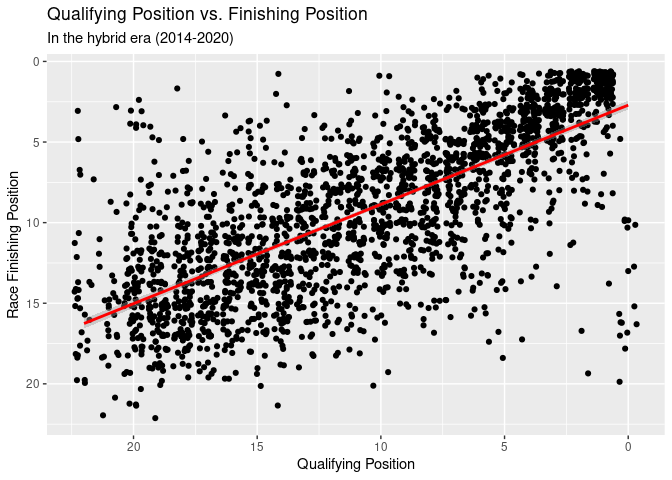
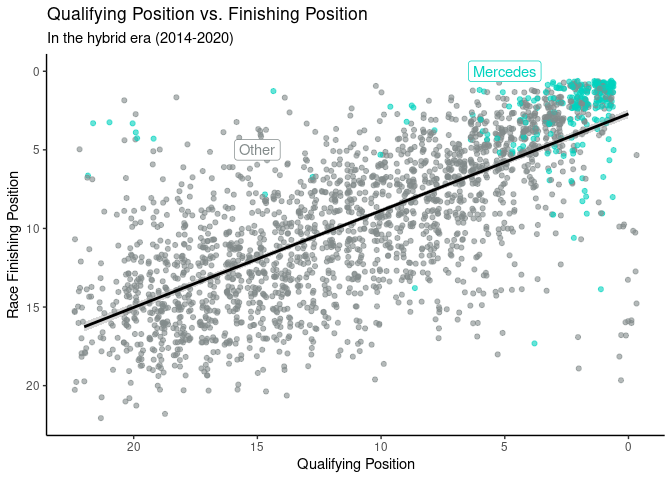
Added to readme and changed scatterplot in the proposal

diff --git a/proposal/proposal.md b/proposal/proposal.md
@@ -252,15 +252,21 @@ strong race?
 ``` r
 f1merged_hybrid %>%
   filter(!is.na(position)) %>%
-  ggplot(aes(x = grid, y = position)) +
-  geom_jitter() +
-  geom_smooth(method = lm, colour = "red") +
+  ggplot(aes(x = grid, y = position, color = constructorname == "Mercedes")) +
+  geom_jitter(alpha = 0.6) +
+  geom_smooth(method = lm, colour = "black") +
+  theme_classic() +
   labs(x = "Qualifying Position",
        y = "Race Finishing Position",
        title = "Qualifying Position vs. Finishing Position",
-       subtitle = "In the hybrid era (2014-2020)") +
+       subtitle = "In the hybrid era (2014-2020)",
+       color = "Constructor") +
+  scale_color_manual(values = c("azure4","#00d2be")) +
+  theme(legend.position = "none") +
   scale_y_reverse() +
-  scale_x_reverse()
+  scale_x_reverse() +
+  annotate(geom = "label", x = 5, y = 0, label = "Mercedes", color = "#00d2be") +
+  annotate(geom = "label", x = 15, y = 5, label = "Other", color = "azure4")
 ```
 
 ![](proposal_files/figure-gfm/qualifying_vs_race-1.png)<!-- -->
